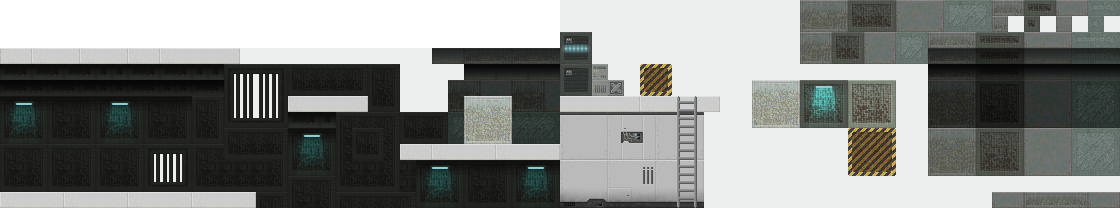
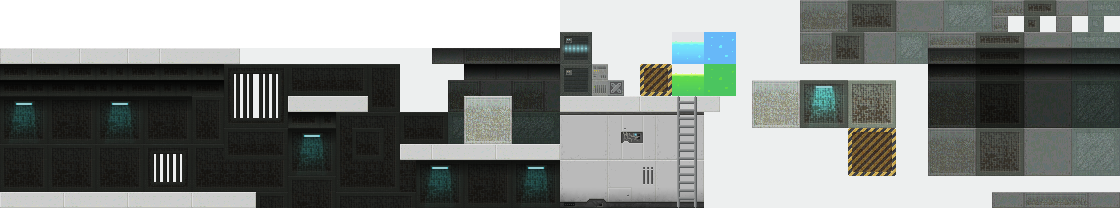
Added death tiles and X/Y snapping offsets for placing tiles bigger/smaller than 32*32. Added level type, although not implemented in-game.

Changed region(s): [[0.5938, 0.1442, 0.6562, 0.4615]]

diff --git a/Level Editor/LevelEditor1/LevelEditor1/Game1.cs b/Level Editor/LevelEditor1/LevelEditor1/Game1.cs
@@ -14,7 +14,7 @@ using System.Xml.Serialization;
 
 namespace LevelEditor1
 {
-    public enum CollisionType { Solid, OneWay };
+    public enum CollisionType { Solid, OneWay, Death };
     enum PlacementMode { Tiles, Collision, Object, Foreground, Background };
 
     public class Game1 : Microsoft.Xna.Framework.Game
@@ -28,7 +28,6 @@ namespace LevelEditor1
         Level Level;
         SpriteFont Font;
         PlacementMode CurrentMode = PlacementMode.Tiles;
-        
 
         KeyboardState CurrentKeyboardState, PreviousKeyboardState;
         MouseState CurrentMouseState, PreviousMouseState;
@@ -146,6 +145,10 @@ namespace LevelEditor1
 
             xSizeSelect.Update();
             ySizeSelect.Update();
+
+            xSnapSelect.Update();
+            ySnapSelect.Update();
+
             PlaceTileSize = new Vector2(xSizeSelect.CurrentSize, ySizeSelect.CurrentSize);
 
             #region Update the current mode
@@ -184,7 +187,7 @@ namespace LevelEditor1
                     #region Place a new tile
                     if (LevelTemplateSprite.DestinationRectangle.Contains(new Point(CurrentMouseState.X, CurrentMouseState.Y)))
                     {
-                        newTilePosition = new Vector2((CurrentMouseState.X - CurrentMouseState.X % xSizeSelect.CurrentSize), (CurrentMouseState.Y - CurrentMouseState.Y % ySizeSelect.CurrentSize));
+                        newTilePosition.X = (CurrentMouseState.X - CurrentMouseState.X % xSizeSelect.CurrentSize);
                     }
 
                     if (CurrentMouseState.LeftButton == ButtonState.Pressed &&
@@ -209,6 +212,14 @@ namespace LevelEditor1
                             }
                         }
                     }
+
+                    #region Fill
+                    if (CurrentKeyboardState.IsKeyUp(Keys.F) == true &&
+                        PreviousKeyboardState.IsKeyDown(Keys.F) == true)
+                    {
+
+                    }
+                    #endregion
                     #endregion
 
                     #region Select another tile
@@ -252,6 +263,7 @@ namespace LevelEditor1
                         }
                     }
                     #endregion
+
                     break;
                 #endregion
 
@@ -479,6 +491,85 @@ namespace LevelEditor1
                     #endregion
                     break;
                 #endregion
+
+                #region Objects
+                case PlacementMode.Object:
+                    {
+                        CurrentTileSelection.Texture = TilesCollection;
+                        CurrentTileSelection.Update();
+
+                        if (LevelTemplateSprite.DestinationRectangle.Contains(new Point(CurrentMouseState.X, CurrentMouseState.Y)))
+                        {
+                            newTilePosition.X = (CurrentMouseState.X - CurrentMouseState.X % xSizeSelect.CurrentSize);
+                        }
+
+                        if (CurrentMouseState.LeftButton == ButtonState.Pressed &&
+                            CurrentMouseState.Y < LevelSizeTemplate.Height &&
+                            CurrentMouseState.Y > 0 &&
+                            CurrentMouseState.X < LevelSizeTemplate.Width &&
+                            CurrentMouseState.X > 0)
+                        {
+                            Vector2 tileXY = newTilePosition / 16;
+
+                            for (int x = 0; x < xSizeSelect.CurrentSize / 16; x++)
+                            {
+                                for (int y = 0; y < ySizeSelect.CurrentSize / 16; y++)
+                                {
+                                    Tile newTile = new Tile();
+                                    newTile.Size = new Vector2(16, 16);
+                                    newTile.TileChar = new Vector2(SelectedTileIndex.X + x, SelectedTileIndex.Y + y);
+                                    newTile.Position = new Vector2((tileXY.X + x) * 16, (tileXY.Y + y) * 16);
+                                    newTile.LoadContent(Content);
+
+                                    Level.MainTileList[(int)tileXY.Y + y][(int)tileXY.X + x] = newTile;
+                                }
+                            }
+                        }
+
+                        #region Select another object
+                        if (CurrentMouseState.LeftButton == ButtonState.Released &&
+                            PreviousMouseState.LeftButton == ButtonState.Pressed &&
+                            CurrentTileSelection.DestinationRectangle.Contains(new Point(CurrentMouseState.X, CurrentMouseState.Y)))
+                        {
+                            if (CurrentMouseState.Y >= LevelSizeTemplate.Height + 32)
+                            {
+                                SelectedTilePosition = new Vector2(CurrentMouseState.X - CurrentMouseState.X % 16, CurrentMouseState.Y - CurrentMouseState.Y % 16);
+                                SelectedTileIndex.X = (int)(SelectedTilePosition.X / 16);
+                                SelectedTileIndex.Y = (int)(SelectedTilePosition.Y - LevelSizeTemplate.Height - 32) / 16;
+                            }
+                        }
+                        #endregion
+
+                        #region Remove object by right clicking
+                        if (LevelTemplateSprite.DestinationRectangle.Contains(new Point(CurrentMouseState.X, CurrentMouseState.Y)))
+                        {
+                            newTilePosition = new Vector2((CurrentMouseState.X - CurrentMouseState.X % xSizeSelect.CurrentSize), (CurrentMouseState.Y - CurrentMouseState.Y % ySizeSelect.CurrentSize));
+                        }
+
+                        if (CurrentMouseState.RightButton == ButtonState.Pressed &&
+                            CurrentMouseState.Y < LevelSizeTemplate.Height &&
+                            CurrentMouseState.Y > 0 &&
+                            CurrentMouseState.X < LevelSizeTemplate.Width &&
+                            CurrentMouseState.X > 0)
+                        {
+                            Vector2 tileXY = newTilePosition / 16;
+
+                            for (int x = 0; x < xSizeSelect.CurrentSize / 16; x++)
+                            {
+                                for (int y = 0; y < ySizeSelect.CurrentSize / 16; y++)
+                                {
+                                    Tile newTile = new Tile();
+                                    newTile.TileChar = new Vector2(0, 0);
+                                    newTile.LoadContent(Content);
+
+                                    Level.MainTileList[(int)tileXY.Y + y][(int)tileXY.X + x] = newTile;
+                                }
+                            }
+                        }
+                        #endregion
+                    }
+                    break;
+                #endregion
             }            
 
             PreviousKeyboardState = CurrentKeyboardState;
@@ -499,14 +590,14 @@ namespace LevelEditor1
 
             ModeTabs.Draw(spriteBatch);
 
+            if (BackgroundVisible == true)
+                Level.DrawBackgroundTiles(spriteBatch);
+
             if (TilesVisible == true)
                 Level.DrawTiles(spriteBatch);
 
             if (ForegroundVisible == true)
                 Level.DrawForegroundTiles(spriteBatch);
-
-            if (BackgroundVisible == true)
-                Level.DrawBackgroundTiles(spriteBatch);
 
             if (CollisionMaskVisible == true)
                 Level.DrawCollisions(spriteBatch);

diff --git a/Level Editor/LevelEditor1/LevelEditor1/Decal.cs b/Level Editor/LevelEditor1/LevelEditor1/Decal.cs
@@ -1,0 +1,38 @@
+using System;
+using System.Collections.Generic;
+using System.Linq;
+using System.Text;
+using Microsoft.Xna.Framework;
+using Microsoft.Xna.Framework.Graphics;
+using Microsoft.Xna.Framework.Content;
+
+namespace LevelEditor1
+{
+    public class Decal
+    {
+        public Texture2D Texture;
+        public CollisionTile TetherTile;
+        public Vector2 Size;
+        public Vector2 Orienation;
+
+        public Decal(Texture2D texture, CollisionTile tile)
+        {
+
+        }
+
+        public void LoadContent(ContentManager contentManager)
+        {
+
+        }
+
+        public void Update(GameTime gameTime)
+        {
+
+        }
+
+        public void Draw(SpriteBatch spriteBatch)
+        {
+            spriteBatch.Draw(Texture, new Rectangle((int)TetherTile.Position.X, (int)TetherTile.Position.Y, Texture.Width, Texture.Height), Color.White);
+        }
+    }
+}

diff --git a/Level Editor/LevelEditor1/LevelEditor1/CollisionTile.cs b/Level Editor/LevelEditor1/LevelEditor1/CollisionTile.cs
@@ -27,6 +27,9 @@ namespace LevelEditor1
             if (TileChar.X == 1)
                 CollisionType = CollisionType.OneWay;
 
+            if (TileChar.X == 2)
+                CollisionType = CollisionType.Death;
+
             switch (CollisionType)
             {
                 case CollisionType.Solid:
@@ -35,6 +38,10 @@ namespace LevelEditor1
 
                 case CollisionType.OneWay:
                     SourceRectangle = new Rectangle(16, 0, 16, 16);
+                    break;
+
+                case CollisionType.Death:
+                    SourceRectangle = new Rectangle(32, 0, 16, 16);
                     break;
             }
             

diff --git a/Level Editor/LevelEditor1/LevelEditor1/Tile.cs b/Level Editor/LevelEditor1/LevelEditor1/Tile.cs
@@ -16,7 +16,6 @@ namespace LevelEditor1
 
         public Tile()
         {
-
             //Vector2 position, Vector2 size, Vector2 tileChar
             //TileChar = tileChar;
             //Position = position;
@@ -34,7 +33,7 @@ namespace LevelEditor1
 
         public void Draw(SpriteBatch spriteBatch)
         {
-            spriteBatch.Draw(TileTexture, DestinationRectangle, SourceRectangle, Color.White);
+            spriteBatch.Draw(TileTexture, DestinationRectangle, SourceRectangle, Color.White, 0, Vector2.Zero, SpriteEffects.None, 0f);
         }
     }
 }

diff --git a/Level Editor/LevelEditor1/LevelEditor1/GameObject.cs b/Level Editor/LevelEditor1/LevelEditor1/GameObject.cs
@@ -1,0 +1,24 @@
+using System;
+using System.Collections.Generic;
+using System.Linq;
+using System.Text;
+using Microsoft.Xna.Framework;
+using Microsoft.Xna.Framework.Content;
+using Microsoft.Xna.Framework.Graphics;
+
+namespace LevelEditor1
+{
+    enum ObjectType { Teleporter, SpawnPoint, BouncePad };
+    class GameObject : Tile
+    {
+        public GameObject()
+        {
+
+        }
+
+        public void LoadContent(ContentManager content)
+        {
+
+        }
+    }
+}

diff --git a/Level Editor/LevelEditor1/LevelEditor1/Level.cs b/Level Editor/LevelEditor1/LevelEditor1/Level.cs
@@ -9,6 +9,8 @@ using Microsoft.Xna.Framework.Content;
 
 namespace LevelEditor1
 {
+    public enum LevelType { CTF, DeathMatch, TeamDeathMatch };
+
     public class Level
     {
         public List<List<Tile>> MainTileList = new List<List<Tile>>();
